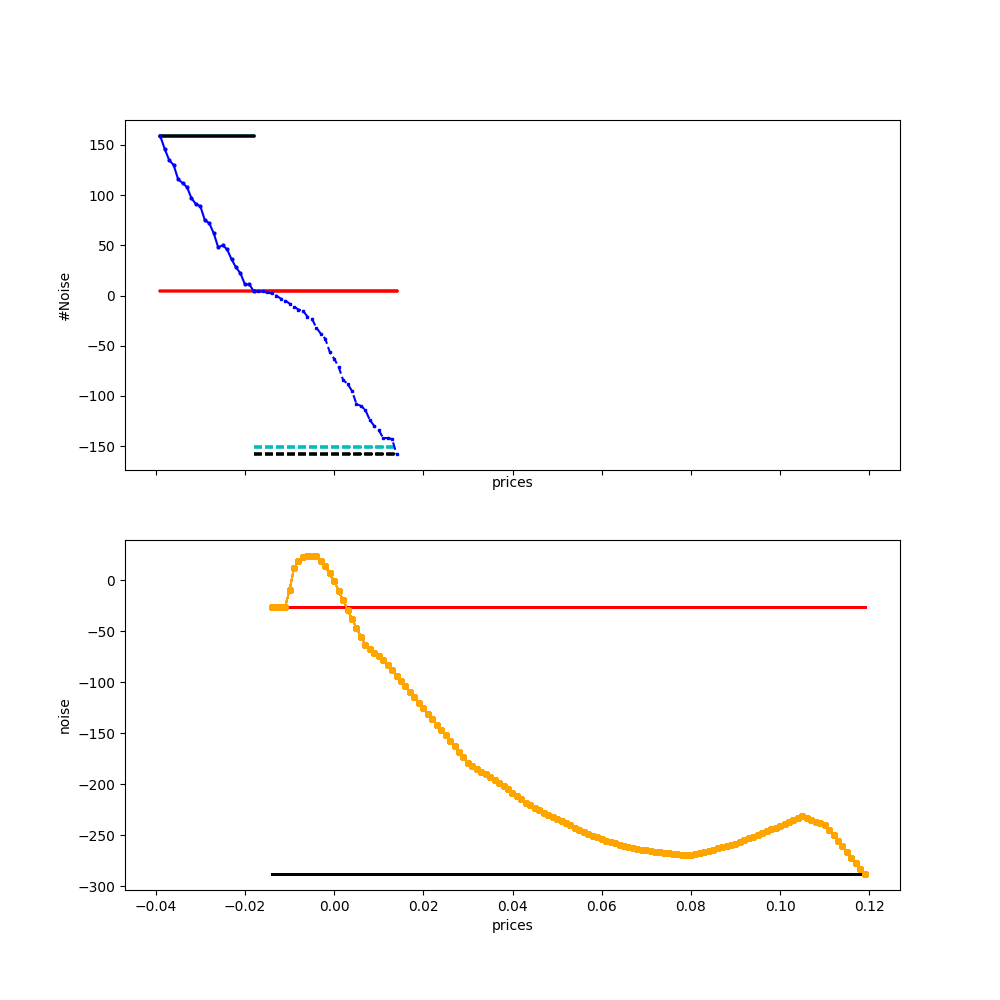
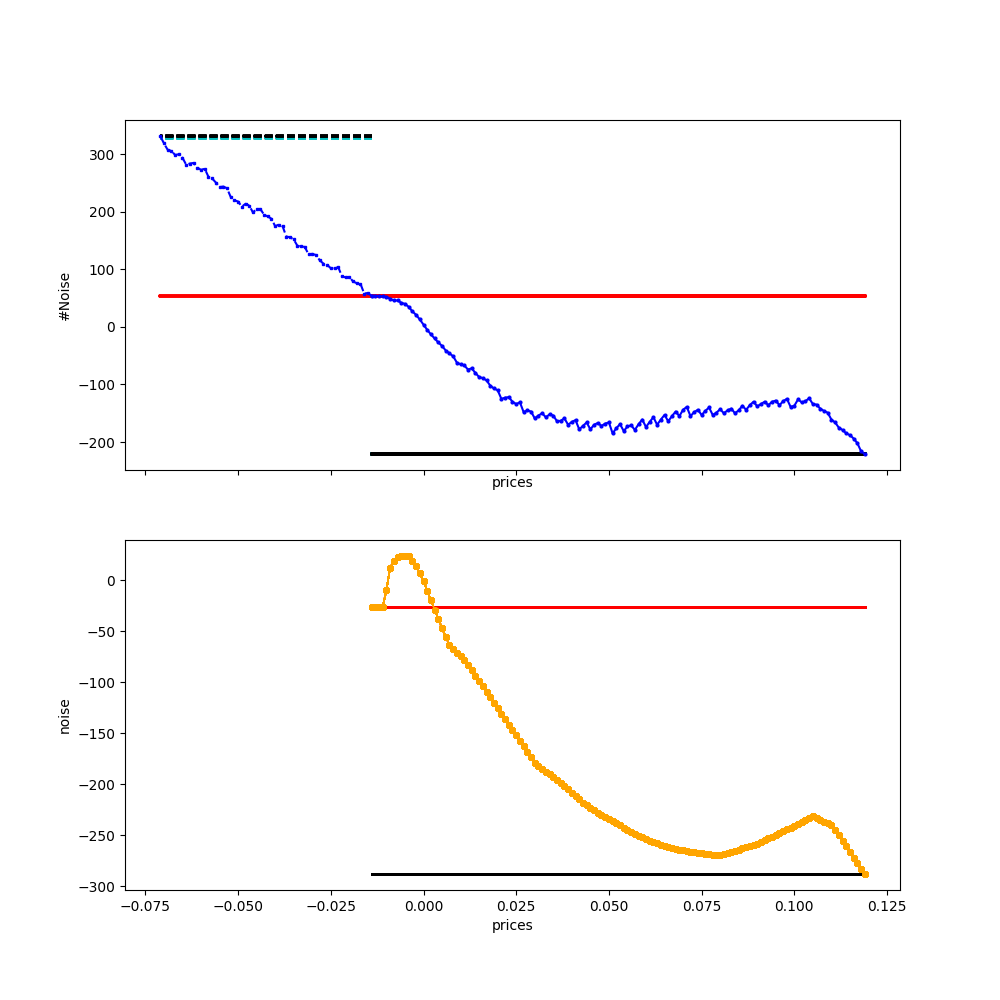
add results: known next noise[1510-1610] in advance

diff --git a/utils.py b/utils.py
@@ -244,9 +244,9 @@ def slide_window_average(arr, window_size=5, step=1):
 
 
 def plot_internal_transaction(hysteresis_info, i=None, predicted_price=None, **kwargs):
-    fname1 = '../simulation/training-dataset/mu-0-sigma-110.0-points-2000/{}-brief.csv'.format(i)
-    fname2 = '../simulation/training-dataset/mu-0-sigma-110.0-points-2000/{}-true-detail.csv'.format(i)
-    fname3 = '../simulation/training-dataset/mu-0-sigma-110.0-points-2000/{}-fake-detail.csv'.format(i)
+    # fname1 = '../simulation/training-dataset/mu-0-sigma-110.0-points-2000/{}-brief.csv'.format(i+1500)
+    fname2 = '../simulation/training-dataset/mu-0-sigma-110.0-points-2000/{}-true-detail.csv'.format(i+1500-1)
+    # fname3 = '../simulation/training-dataset/mu-0-sigma-110.0-points-2000/{}-fake-detail.csv'.format(i+1500)
     fname4 = './new-dataset/lstm/price_vs_price/units-1500/capacity-256/predictions.csv'
     # import ipdb; ipdb.set_trace()
     # _data = np.loadtxt(fname1, delimiter=',')
@@ -298,9 +298,9 @@ def plot_internal_transaction(hysteresis_info, i=None, predicted_price=None, **k
 
 
 def plot_simulation_info(i, ax):
-    fname1 = '../simulation/training-dataset/mu-0-sigma-110.0-points-2000/{}-brief.csv'.format(i)
-    fname2 = '../simulation/training-dataset/mu-0-sigma-110.0-points-2000/{}-true-detail.csv'.format(i)
-    fname3 = '../simulation/training-dataset/mu-0-sigma-110.0-points-2000/{}-fake-detail.csv'.format(i)
+    fname1 = '../simulation/training-dataset/mu-0-sigma-110.0-points-2000/{}-brief.csv'.format(1500+i)
+    fname2 = '../simulation/training-dataset/mu-0-sigma-110.0-points-2000/{}-true-detail.csv'.format(1500+i)
+    fname3 = '../simulation/training-dataset/mu-0-sigma-110.0-points-2000/{}-fake-detail.csv'.format(1500+i)
 
     _data = np.loadtxt(fname1, delimiter=',')
     true_data = np.loadtxt(fname2, delimiter=',')
@@ -364,12 +364,12 @@ def plot_hysteresis_info(hysteresis_info, i=None, predicted_price=None, **kwargs
 
 def plot_price_span(guess_price_seq, gt_data, lstm_data, ax):
     x = range(guess_price_seq.shape[0])
-    ax.plot(x, guess_price_seq, marker='.', linewidth=1)
+    ax.plot(x, guess_price_seq, marker='.', linewidth=1, label='hnn guess')
     # groud truth
     ax.plot(x, [gt_data]*guess_price_seq.shape[0], marker='+', linewidth=1, color='blue', label='ground truth')
     # HNN
     avg_guess_price = guess_price_seq.mean()
-    ax.plot(x, [avg_guess_price]*guess_price_seq.shape[0], marker='x', linewidth=1, color='orange', label='hnn')
+    ax.plot(x, [avg_guess_price]*guess_price_seq.shape[0], marker='x', linewidth=1, color='orange', label='hnn avg')
     # LSTM
     ax.plot(x, [lstm_data]*guess_price_seq.shape[0], marker='*', linewidth=1, color='green', label='lstm')
     ax.legend(loc='upper right', shadow=True, fontsize='x-large')
